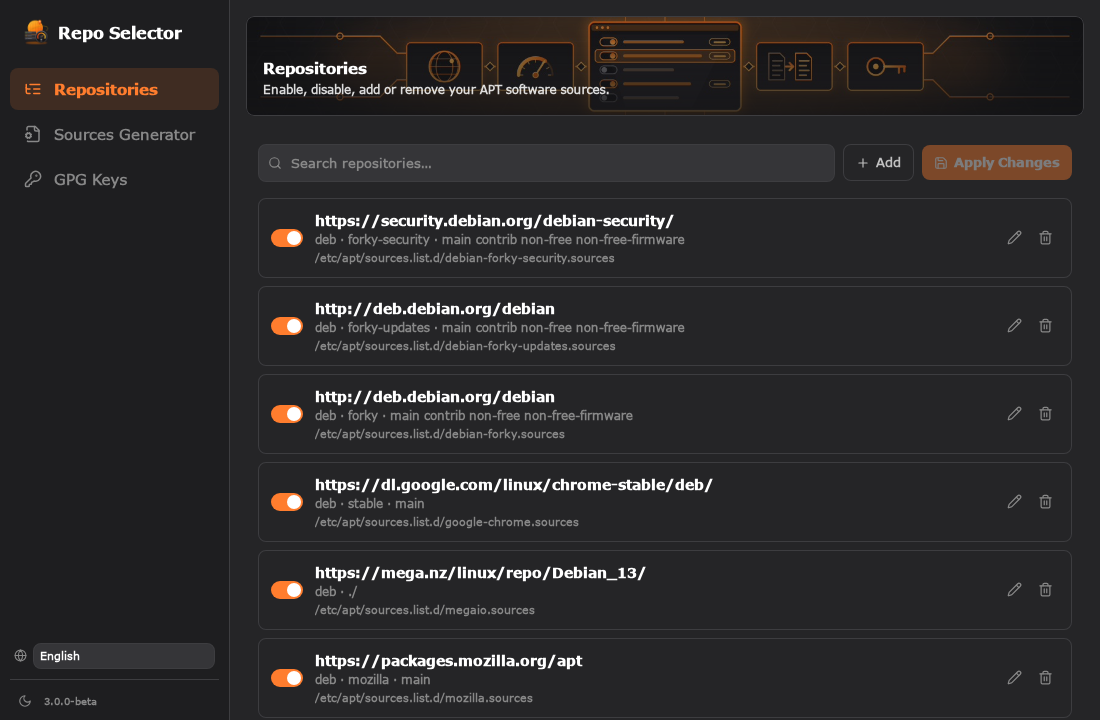
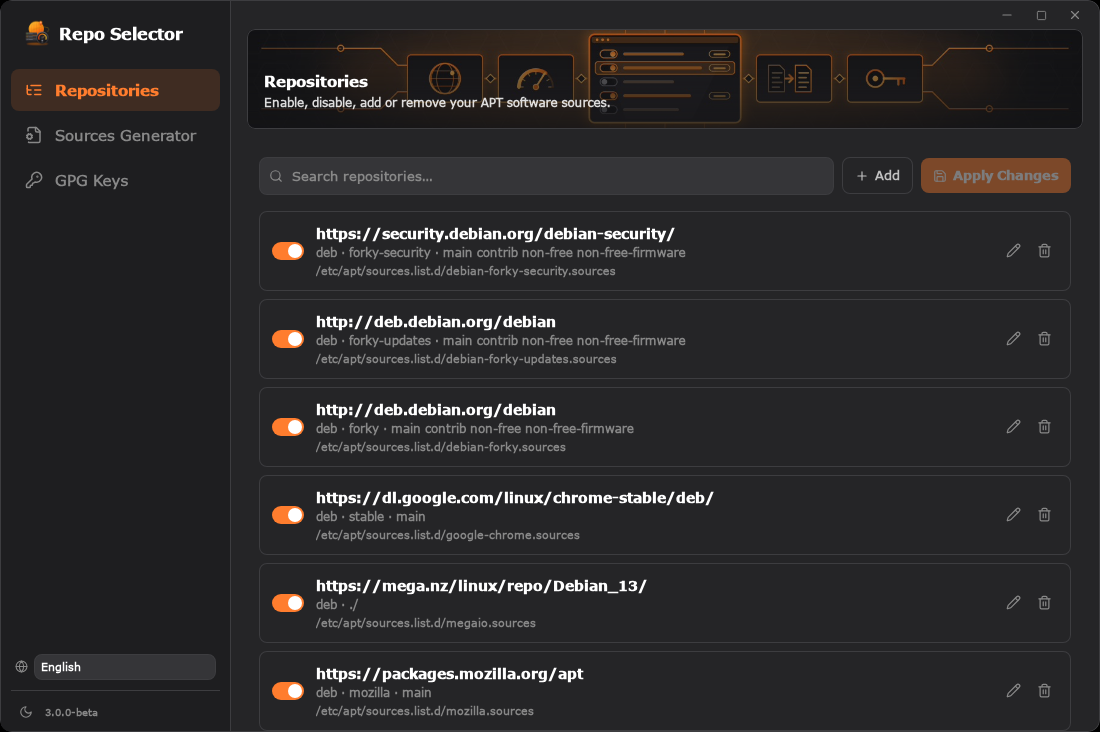
Frameless card window, new screenshots and bump to 3.0.0-7-beta

diff --git a/src/components/WindowControls.svelte b/src/components/WindowControls.svelte
@@ -1,0 +1,40 @@
+<script lang="ts">
+  import { getCurrentWindow } from "@tauri-apps/api/window";
+  import { _ } from "svelte-i18n";
+  import { Minus, Square, Copy, X } from "lucide-svelte";
+  import { maximized } from "../lib/window";
+
+  // The buttons of the window when the system draws no frame: minimize, maximize
+  // or restore, and close, at the top right of the card. They are plain icons;
+  // the accent of the theme shows under the pointer, and red only on close.
+  const win = getCurrentWindow();
+
+  const button = "grid h-[22px] w-8 place-items-center rounded text-text-muted transition-colors";
+</script>
+
+<div class="flex items-center gap-0.5">
+  <button
+    class="{button} hover:bg-primary/15 hover:text-primary"
+    title={$_("app.window.minimize")}
+    aria-label={$_("app.window.minimize")}
+    on:click={() => win.minimize()}
+  >
+    <Minus size={14} />
+  </button>
+  <button
+    class="{button} hover:bg-primary/15 hover:text-primary"
+    title={$maximized ? $_("app.window.restore") : $_("app.window.maximize")}
+    aria-label={$maximized ? $_("app.window.restore") : $_("app.window.maximize")}
+    on:click={() => win.toggleMaximize()}
+  >
+    {#if $maximized}<Copy size={11} />{:else}<Square size={11} />{/if}
+  </button>
+  <button
+    class="{button} hover:bg-danger hover:text-white"
+    title={$_("app.window.close")}
+    aria-label={$_("app.window.close")}
+    on:click={() => win.close()}
+  >
+    <X size={14} />
+  </button>
+</div>

diff --git a/src/App.svelte b/src/App.svelte
@@ -85,15 +85,23 @@
       select(tabs[(idx + dir + tabs.length) % tabs.length].id);
     }
   }
+  import WindowControls from "./components/WindowControls.svelte";
+  import { frameless, maximized } from "./lib/window";
 </script>
 
 <svelte:window on:keydown={handleKeydown} />
 
-<div class="flex h-screen overflow-hidden">
+<div class="h-screen bg-dark {$frameless && !$maximized ? 'window-card' : ''}">
+<div class="flex h-full overflow-hidden">
   <Sidebar {tabs} {active} onSelect={select} {appVersion} />
 
   <div class="flex-1 flex flex-col overflow-hidden min-w-0">
-    <div class="p-4 pb-0 shrink-0">
+    {#if $frameless}
+      <div class="relative h-7 shrink-0" data-tauri-drag-region>
+        <div class="absolute right-2 top-[3px]"><WindowControls /></div>
+      </div>
+    {/if}
+    <div class="p-4 pb-0 shrink-0 {$frameless ? 'pt-0' : ''}" data-tauri-drag-region="deep">
       <div
         class="relative rounded border border-border overflow-hidden flex flex-col items-start justify-end p-4 min-h-[100px]"
         style="background: linear-gradient(rgba(20, 20, 22, 0.25), rgba(20, 20, 22, 0.82)), url('/assets/hero/repo-selector-background.jpg'); background-size: cover; background-position: center;"
@@ -111,3 +119,4 @@
 {#if aboutOpen}
   <AboutDialog onClose={() => (aboutOpen = false)} />
 {/if}
+</div>

diff --git a/src/lib/window.ts b/src/lib/window.ts
@@ -1,0 +1,21 @@
+import { writable } from "svelte/store";
+import { getCurrentWindow } from "@tauri-apps/api/window";
+
+// Whether the system draws a frame around the window. With `decorations` off in
+// tauri.conf.json it does not: the window is one card with rounded corners (the
+// .window-card rule of global.css) and the program shows its own window buttons
+// (WindowControls.svelte). With it on, none of that shows.
+export const frameless = writable(false);
+export const maximized = writable(false);
+
+(async () => {
+  try {
+    const win = getCurrentWindow();
+    if (await win.isDecorated()) return;
+    frameless.set(true);
+    maximized.set(await win.isMaximized());
+    await win.onResized(async () => maximized.set(await win.isMaximized()));
+  } catch {
+    // Not inside Tauri (a browser while developing): leave the window as it is.
+  }
+})();

diff --git a/src/styles/global.css b/src/styles/global.css
@@ -38,12 +38,24 @@
 
   body {
     font-family: "Segoe UI", Tahoma, Geneva, Verdana, sans-serif;
-    background: theme("colors.dark");
+    /* The background is the one of the window card (App.svelte): the body stays
+       transparent so the corners of a window with no frame can be rounded. */
+    background: transparent;
     color: theme("colors.text.DEFAULT");
     height: 100vh;
     margin: 0;
     overflow: hidden;
   }
+}
+
+/*
+ * The window when the system draws no frame: one card with rounded corners.
+ * clip-path also cuts the dialogs (position: fixed), which overflow does not.
+ */
+.window-card {
+  border-radius: 12px;
+  border: 1px solid rgb(var(--color-border));
+  clip-path: inset(0 round 12px);
 }
 
 .content-scroll {

diff --git a/src/components/Sidebar.svelte b/src/components/Sidebar.svelte
@@ -23,7 +23,7 @@
   $: cleanVersion = appVersion.replace(/-\d+-/, "-");
 </script>
 
-<aside class="w-[230px] shrink-0 flex flex-col pt-[18px] px-[10px] pb-2 bg-panel border-r border-border">
+<aside class="w-[230px] shrink-0 flex flex-col pt-[18px] px-[10px] pb-2 bg-panel border-r border-border" data-tauri-drag-region>
   <div class="flex items-center gap-2 px-3 pb-[22px] font-bold text-[0.98rem] text-text-bright">
     <img src="/assets/icons/org.soplos.reposelector.png" alt="Soplos" class="w-[28px] h-[28px] object-contain shrink-0" />
     <span class="whitespace-nowrap">Repo Selector</span>

diff --git a/CHANGELOG.md b/CHANGELOG.md
@@ -2,6 +2,12 @@
 
 All notable changes to Soplos Repo Selector are documented in this file.
 
+## [3.0.0-7-beta] - 2026-10-29
+
+### Changed
+
+- The window no longer has the frame of the system: it is a card with rounded corners and its own minimize, maximize and close buttons at the top right. It can be moved from the top strip, the banner and the side bar, and double click on the strip maximizes it. The rounded corners need a compositing manager running, as the one of Xfce, Plasma or GNOME.
+
 ## [3.0.0-6-beta] - 2026-10-28
 
 ### Changed

diff --git a/README.md b/README.md
@@ -1,6 +1,6 @@
 # Soplos Repo Selector 3.0
 
-![Version](https://img.shields.io/badge/version-3.0.0--6--beta-blue)
+![Version](https://img.shields.io/badge/version-3.0.0--7--beta-blue)
 ![License](https://img.shields.io/badge/license-GPL--3.0--or--later-green)
 ![Platform](https://img.shields.io/badge/platform-Linux-lightgrey)
 ![Tauri](https://img.shields.io/badge/Tauri-2-orange)
